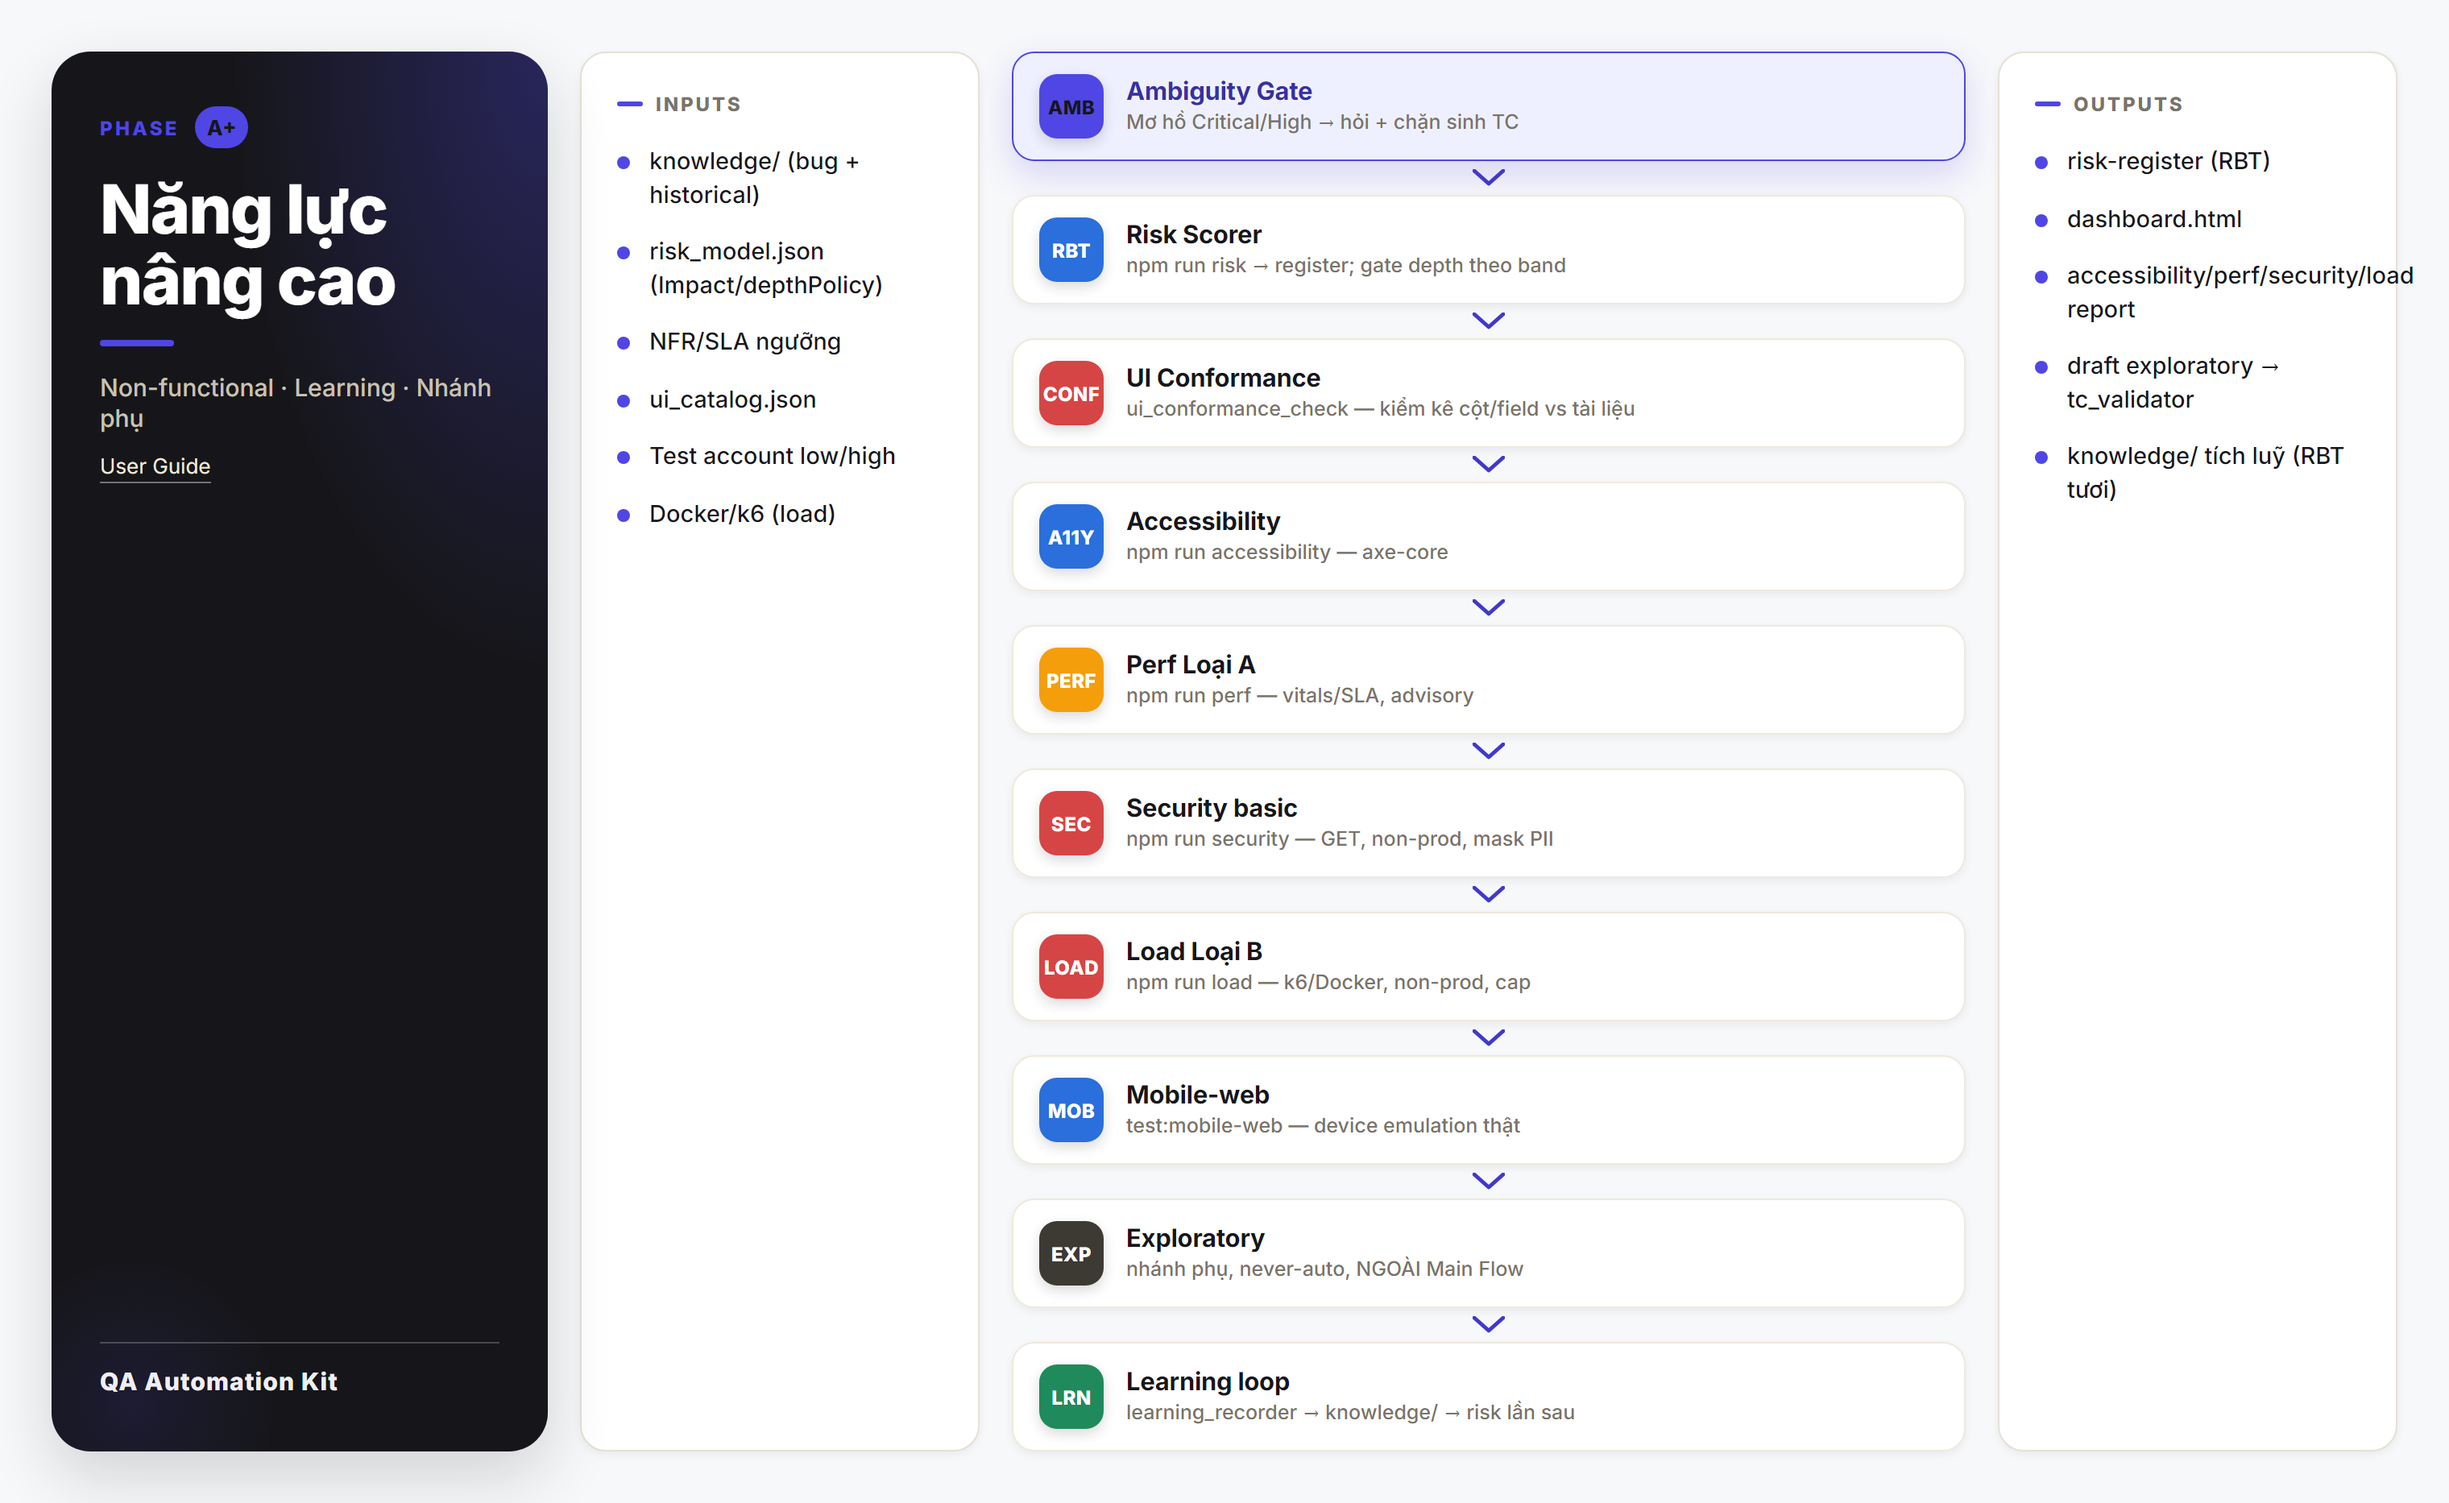
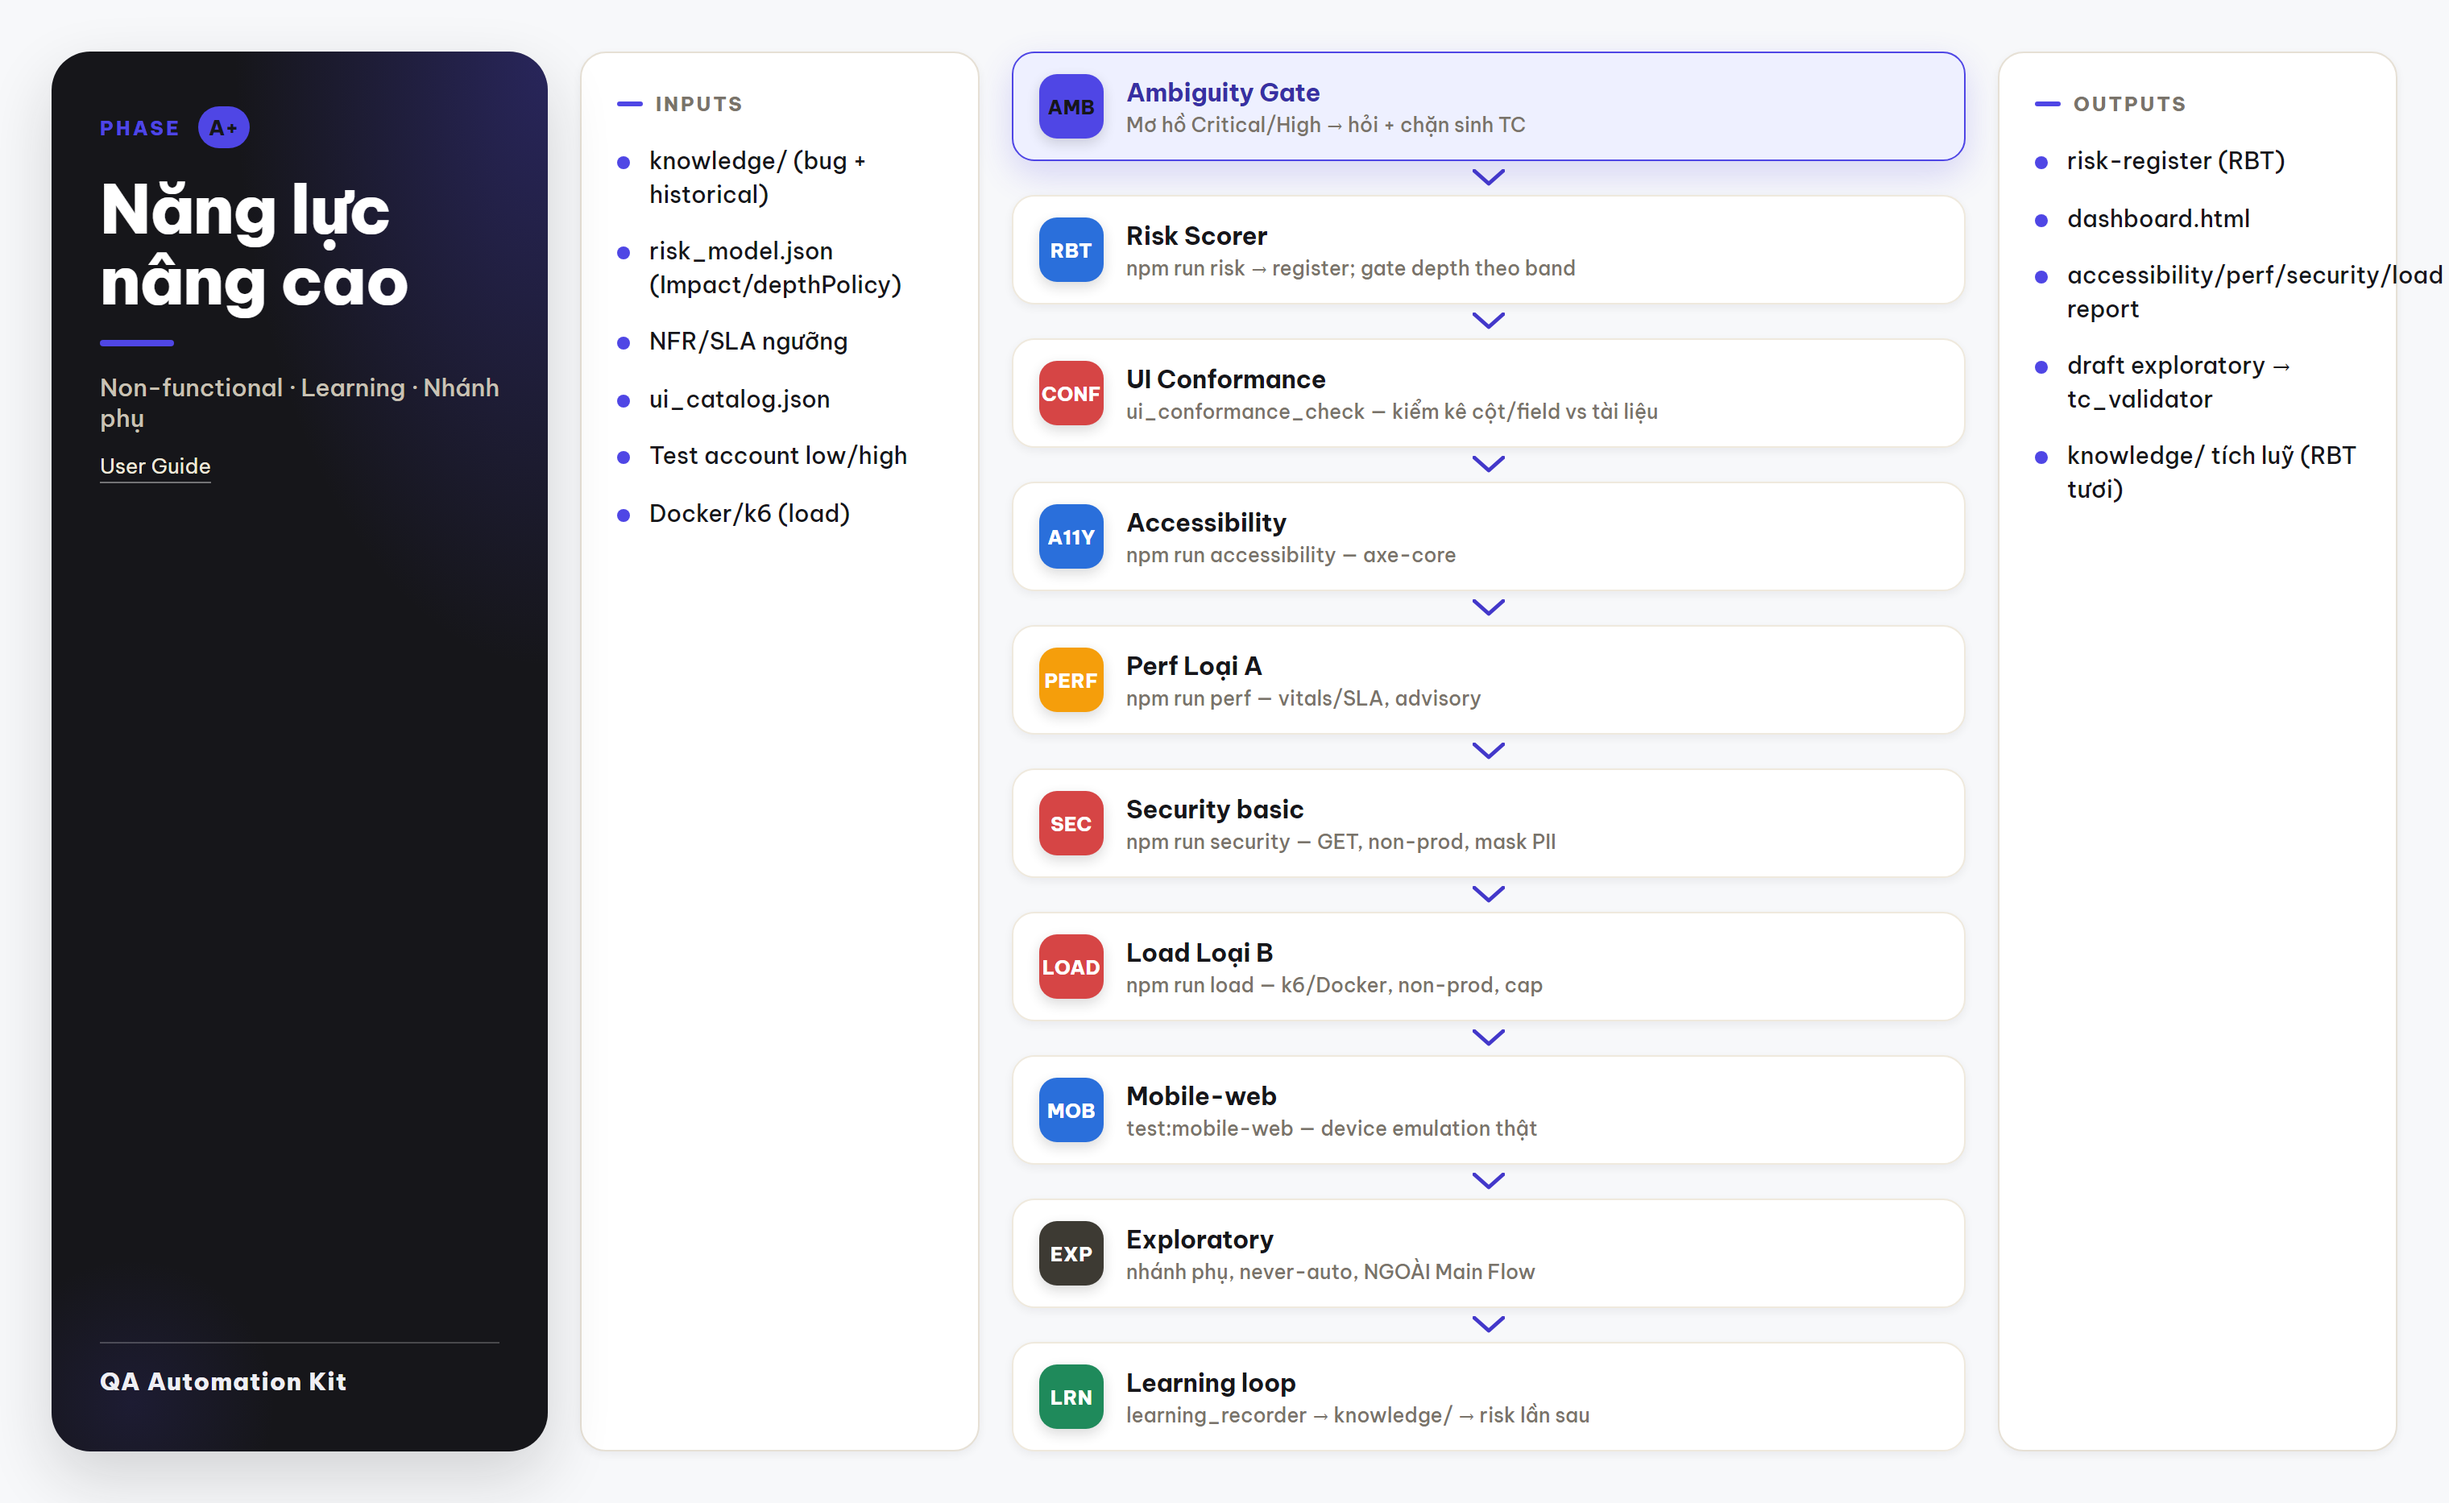
chore(docs): trả font ảnh User Guide về Be Vietnam Pro
Lượt trước tôi đổi sang Inter vì Be Vietnam Pro được khai trong design system của
công ty. Chủ repo yêu cầu giữ font cũ, nên trả về.

Be Vietnam Pro là font công cộng trên Google Fonts, không phải tài sản riêng của
công ty, và nó đủ dấu tiếng Việt. Phần nhận diện thật sự đã gỡ ở commit trước vẫn
nguyên: không logo, không khẩu hiệu, không màu thương hiệu.

Đã vẽ lại 10 ảnh và mở ảnh ra xem chứ không chỉ tin vào lệnh chạy xong.

594/594 test hạ tầng xanh, spec ảnh 4/4.

diff --git a/CHANGELOG.md b/CHANGELOG.md
@@ -21,9 +21,9 @@ và màu thương hiệu của một công ty cụ thể không có chỗ ở đ
 | màu thương hiệu | vàng `#FFB700` và `#E6A300` | chàm `#4F46E5` |
 | nền ấm của DS | mực `#1A1916`, nền `#FAF8F3` | trung tính `#16161A`, `#F7F8FA` |
 
-Font đổi từ Be Vietnam Pro sang Inter.
-Cả hai đều là font công cộng và đều đủ dấu tiếng Việt.
-Đổi vì Be Vietnam Pro được khai trong design system của công ty.
+**Font GIỮ NGUYÊN Be Vietnam Pro.** Lượt đầu tôi đổi sang Inter vì font này được khai trong design
+system của công ty, nhưng chủ repo yêu cầu giữ lại. Đã trả về. Be Vietnam Pro là font công cộng trên
+Google Fonts, không phải tài sản riêng của công ty, và nó đủ dấu tiếng Việt.
 
 **Quét chữ không đủ để nghiệm thu.** Sau lượt thay token đầu, quét chữ thì sạch.
 Nhưng **mở ảnh ra vẫn thấy mũi tên màu vàng**. Hai hex `#E6A300` và `#6B4C00` nằm thẳng trong SVG,
